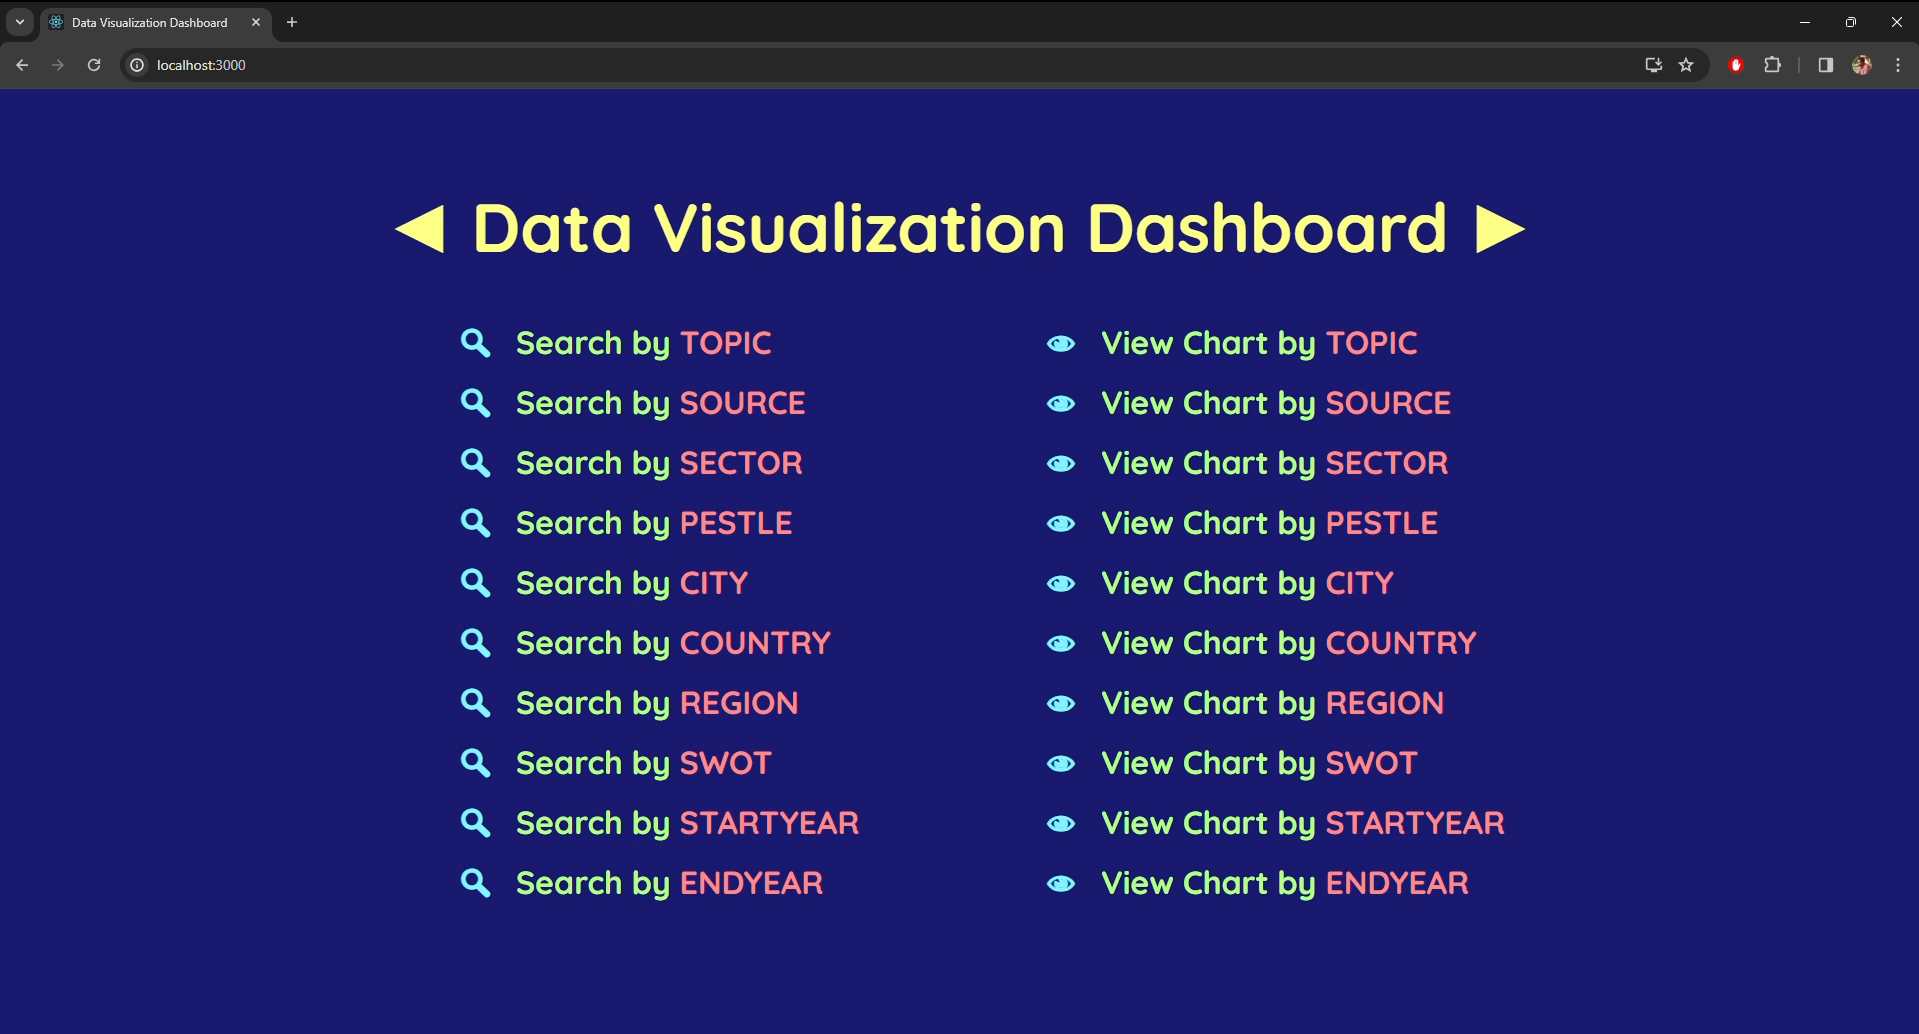
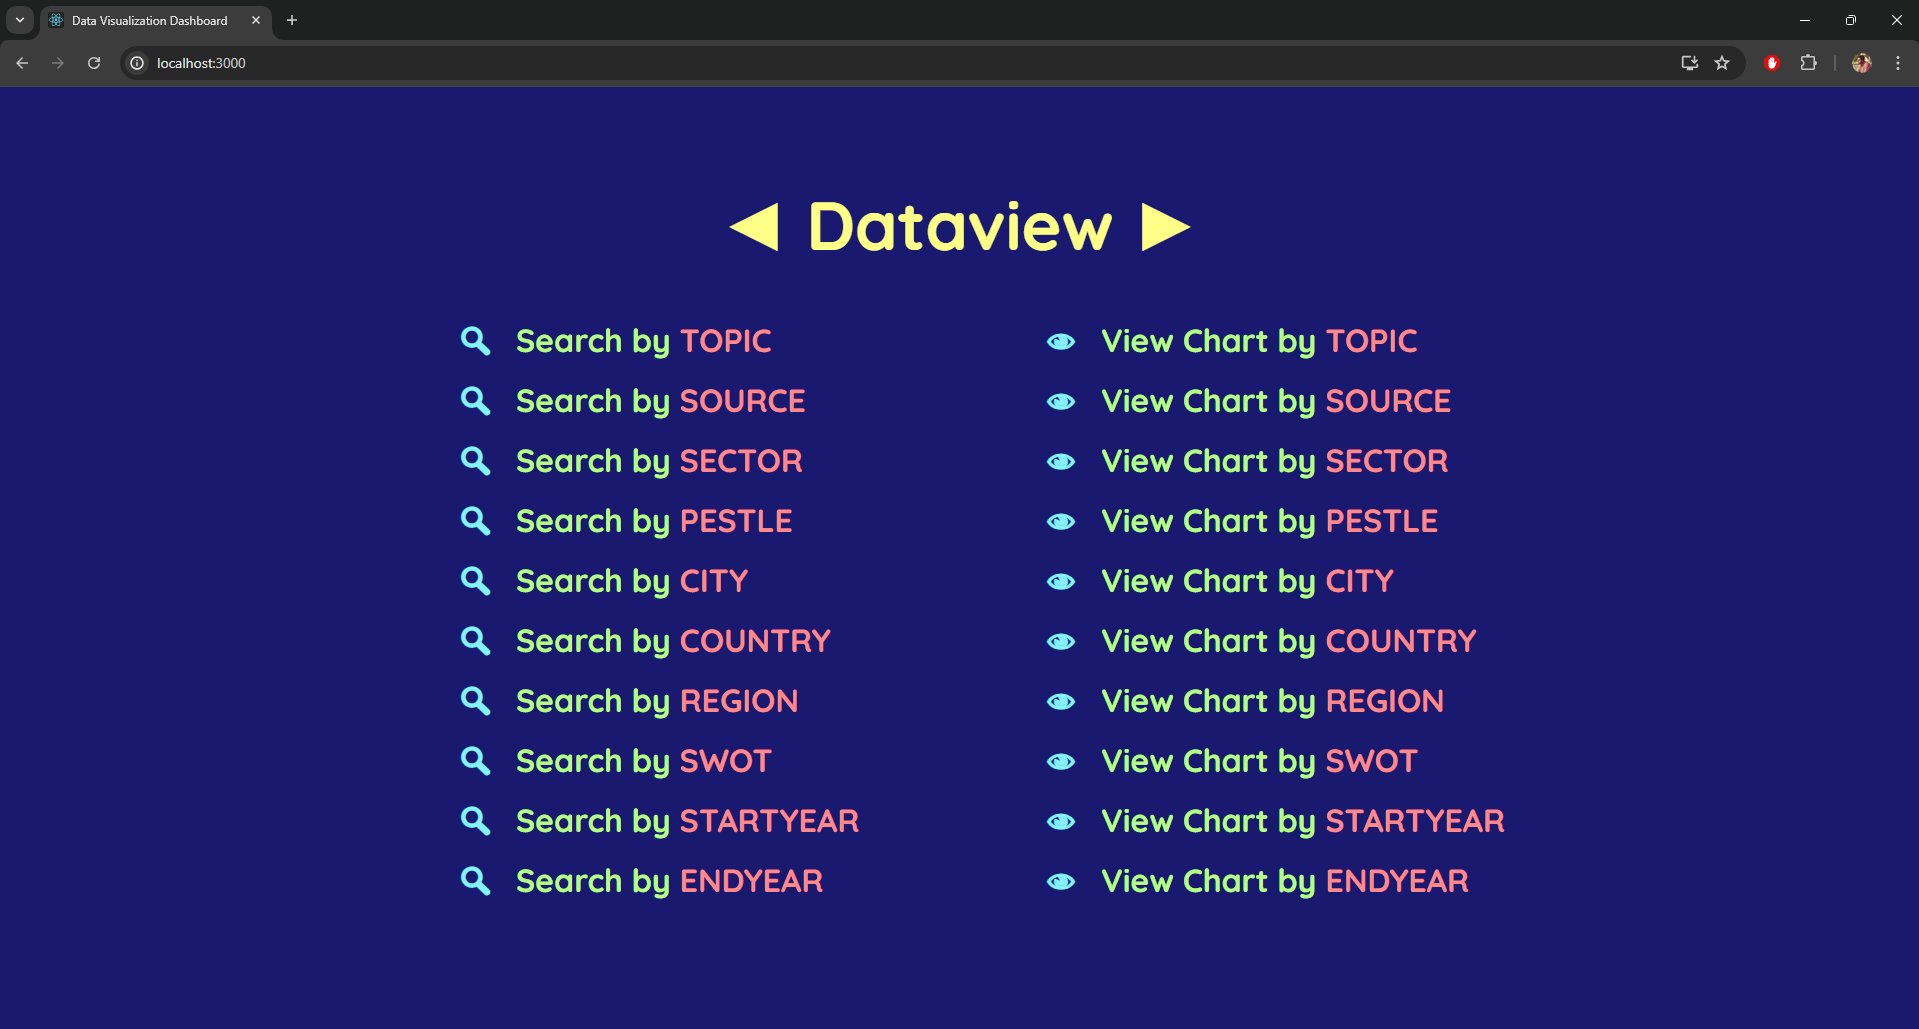
first commit

diff --git a/Frontend/dashboard/src/pages/HomePage.js b/Frontend/dashboard/src/pages/HomePage.js
@@ -22,7 +22,7 @@ export const HomePage = () => {
     return (
         <div className='HomePage'>
             <div className='headerSection'>
-                <h1 className='appName'>◄ Data Visualization Dashboard ►</h1>
+                <h1 className='appName'>◄ Dataview ►</h1>
             </div>
             <div className='homeGrid'>
                 <div>{records.map(record => <HomeCard1 record={record}/>)}</div>
